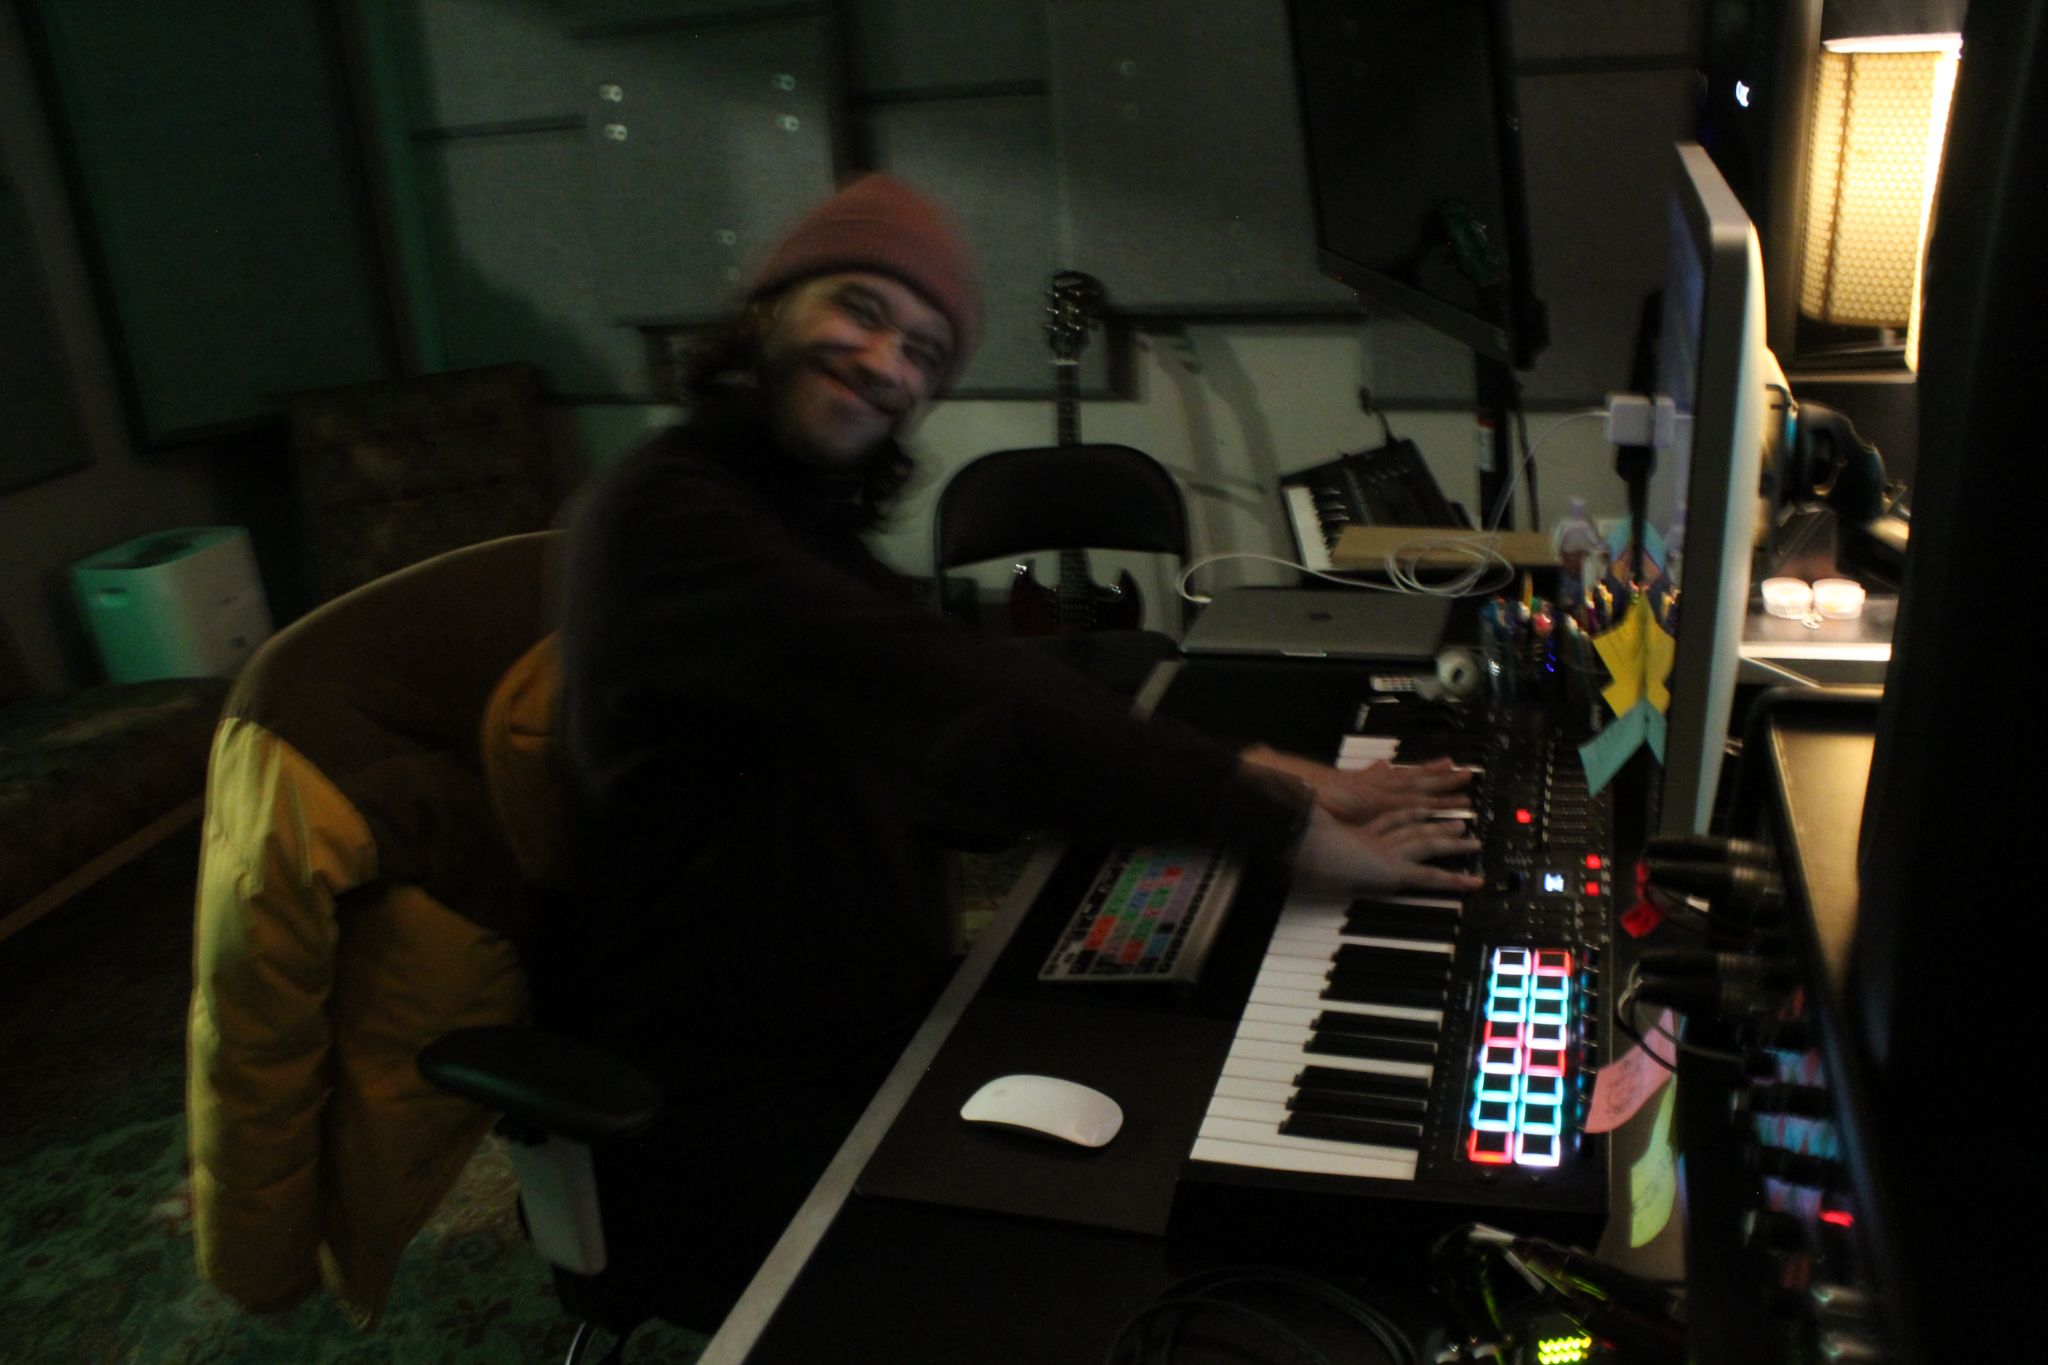
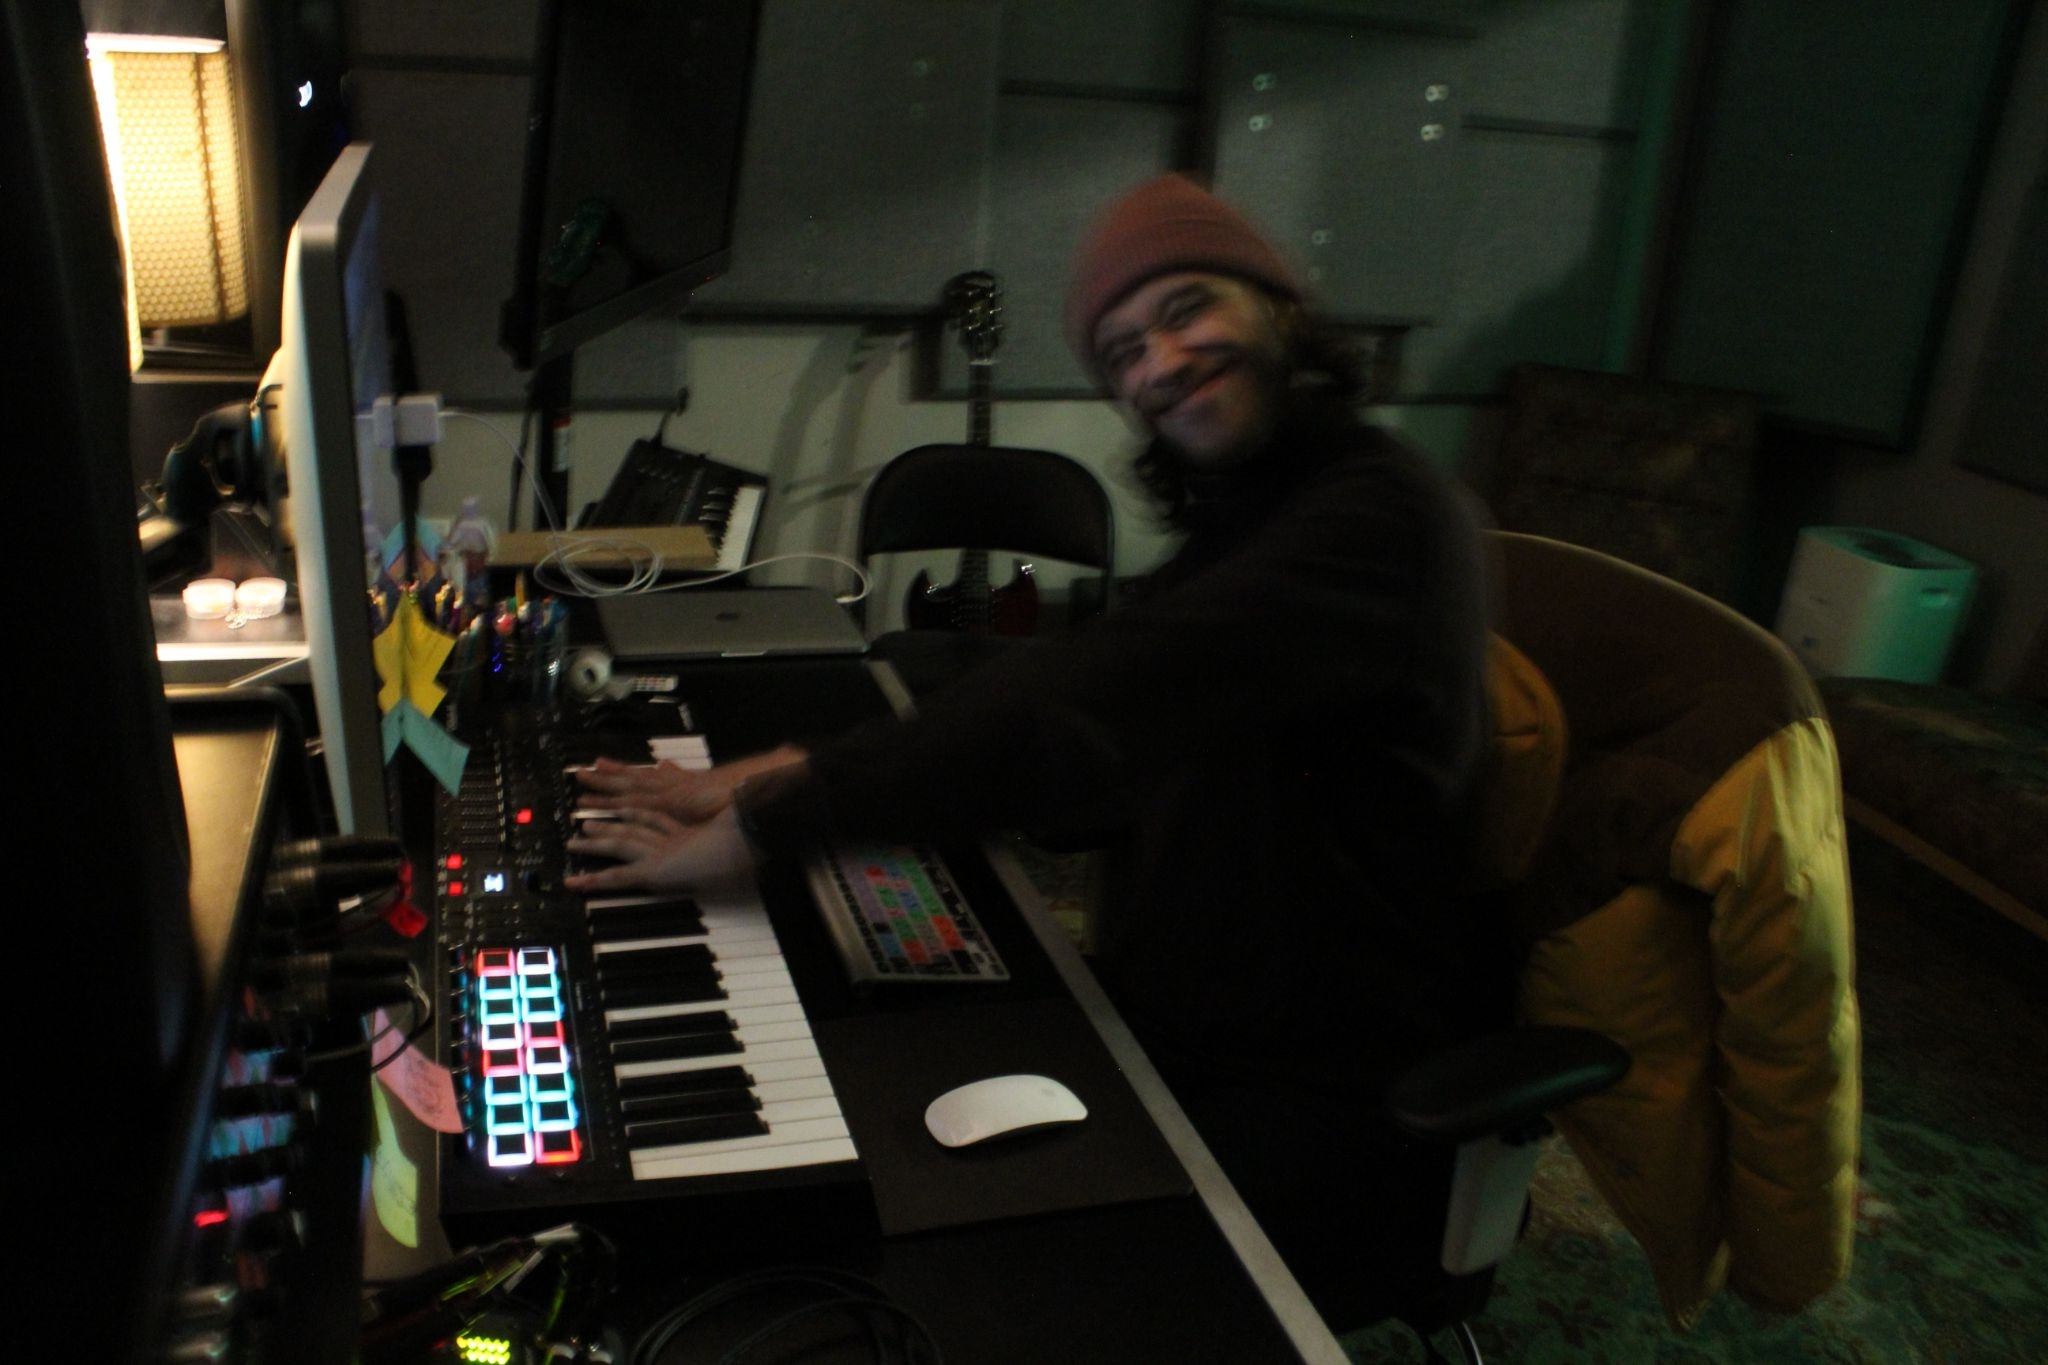
3rd image to landing, img size edits, flip studio image

diff --git a/src/components/Landing.js b/src/components/Landing.js
@@ -14,7 +14,8 @@ function Landing() {
         <div id="home" className="min-h-[100vh] w-[100vw] bg-[#e9f1f7] pt-[72px]">
             <ParallaxBanner style={{ aspectRatio: '1 / 1' }} className="h-[100vh] max-w-[100vw]">
                 <ParallaxBannerLayer image="media/studio.jpg" speed={10} />
-                <ParallaxBannerLayer image="media/concert4.jpg" speed={10} className='animate-[slideshow_15s_ease-in-out_infinite]' />
+                <ParallaxBannerLayer image="media/concert4.jpg" speed={10} className='animate-[slideshow1_30s_ease-in-out_infinite]' />
+                <ParallaxBannerLayer image="media/guitarbg.jpg" speed={10} className='animate-[slideshow2_30s_ease-in-out_infinite]' />
                 <ParallaxBannerLayer className='bg-[#08080861] ease-in duration-200' speed={0}>
                     <div className="text-white absolute top-[20vh] sm:top-[20vh] right-[20px] font-bold pb-[72px] text-[40px] sm:text-[50px] md:text-[60px] lg:text-[70px] z-10">
                         <a href="#/" rel="noreferrer" target="_blank">

diff --git a/src/styles/App.css b/src/styles/App.css
@@ -66,20 +66,41 @@ html{
   transition: all 0.2s;
 }
 
-@keyframes slideshow{
+@keyframes slideshow1{
   0%{
-    opacity: 1;
-  }
-  45%{
-    opacity: 1
-  }
-  50%{
     opacity: 0;
   }
-  95%{
-    opacity: 0
+  25%{
+    opacity: 0;
+  }
+  30%{
+    opacity: 1;
+  }
+  55%{
+    opacity: 1;
+  }
+  60%{
+    opacity: 0;
   }
   100%{
-    opacity: 1
+    opacity:0;
+  }
+}
+
+@keyframes slideshow2{
+  0%{
+    opacity: 0;
+  }
+  55%{
+    opacity: 0;
+  }
+  60%{
+    opacity: 1;
+  }
+  95%{
+    opacity: 1;
+  }
+  100%{
+    opacity: 0;
   }
 }

diff --git a/src/App.js b/src/App.js
@@ -1,5 +1,6 @@
 import { Routes, Route } from "react-router-dom";
 import Home from './pages/home';
+import Portfolio from './pages/portfolio';
 import Styling from './pages/styling'
 import './styles/App.css';
 import React from 'react'
@@ -11,7 +12,9 @@ function App() {
       <div className="App">
         <Routes>
           <Route path="/" element={<Home />} />
+          <Route path="/portfolio" element={<Portfolio />} />
           <Route path="/styling" element={<Styling />} />
+
         </Routes>
       </div>
     </ParallaxProvider>

diff --git a/src/pages/portfolio.jsx b/src/pages/portfolio.jsx
@@ -1,0 +1,22 @@
+import React from 'react'
+
+// Styles
+import "../styles/App.css"
+import "../styles/index.css"
+
+import Contact from '../components/Contact'
+import Navbar from "../components/Navbar"
+import MusicEntry from '../components/MusicEntry';
+import Video from '../components/Video';
+
+function portfolio() {
+    return (
+        <div>
+            <Navbar />
+
+            <Contact />
+        </div>
+    )
+}
+
+export default portfolio
